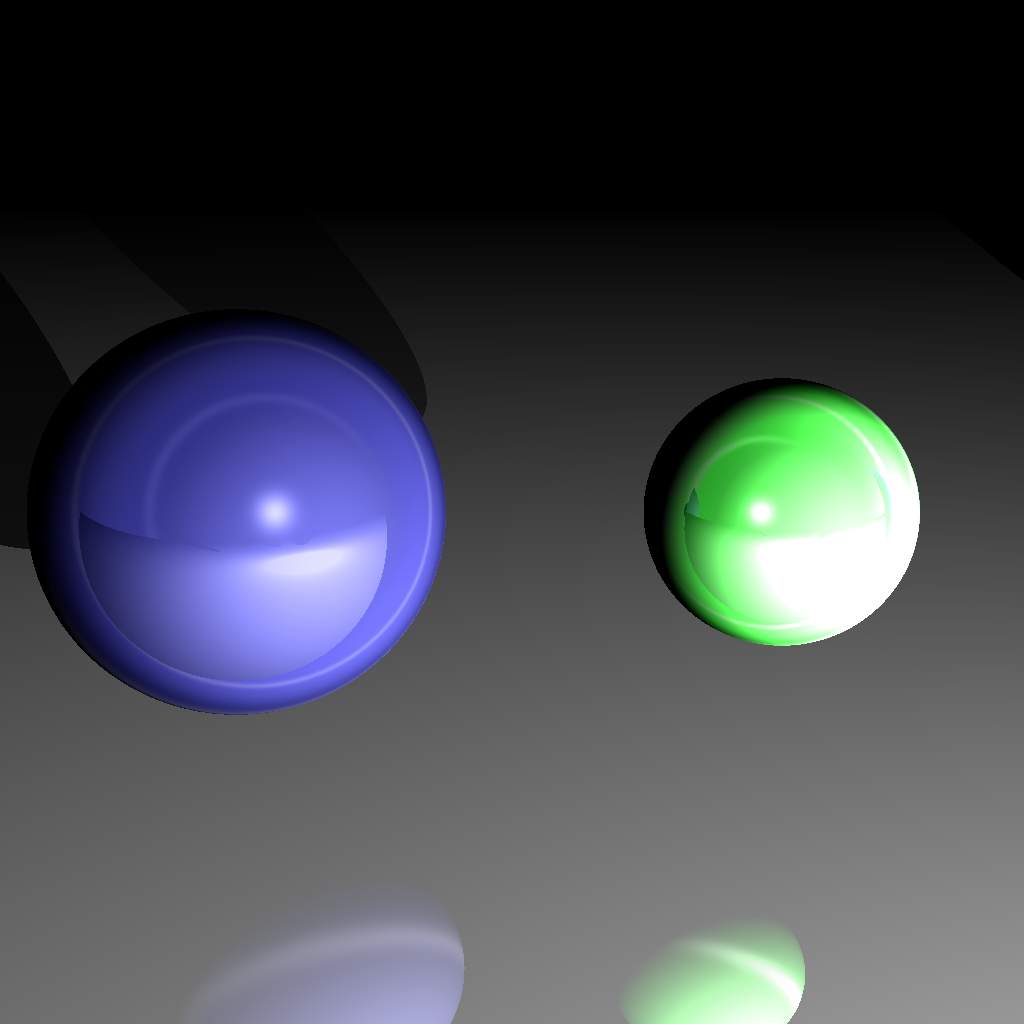
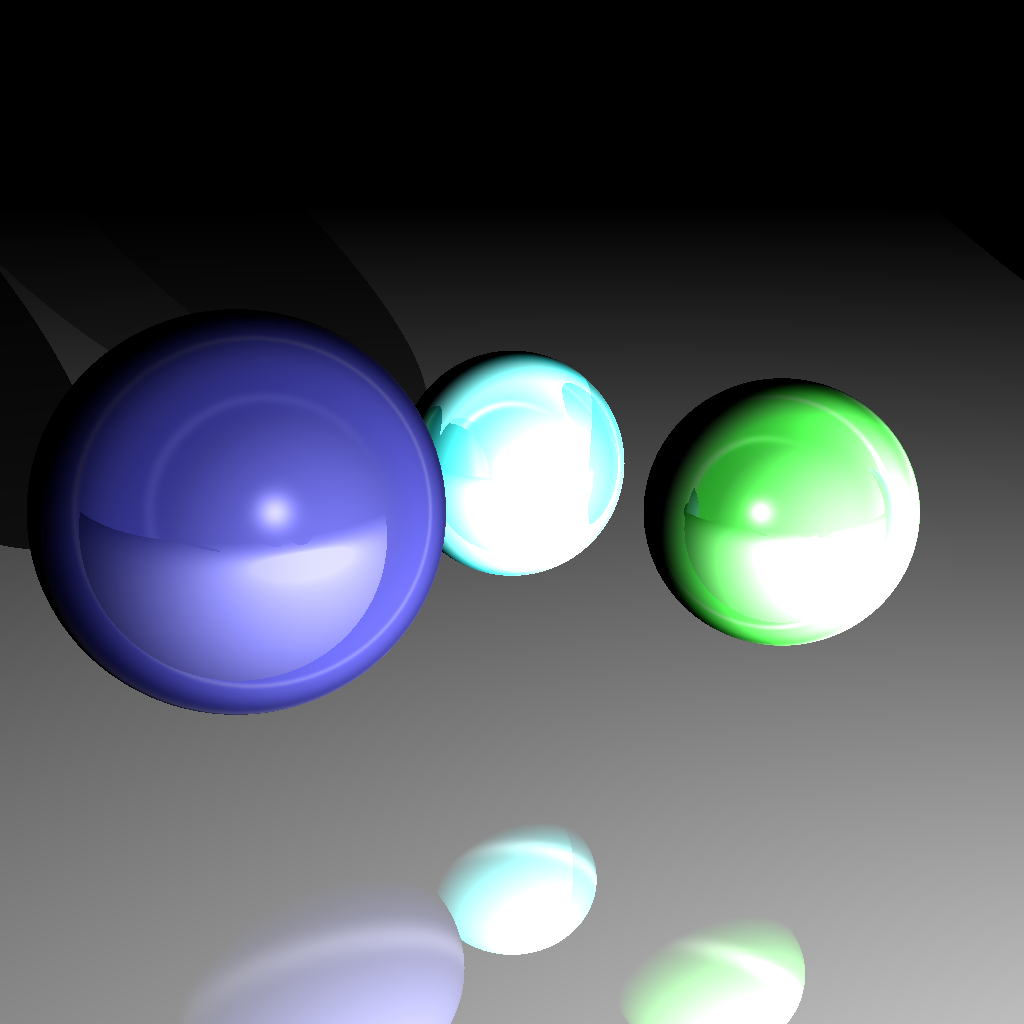
Raysexo

diff --git a/Scene.py b/Scene.py
@@ -272,7 +272,8 @@ if __name__ == "__main__":
     #LEFT HAND 
     S1 = Sphere(Point(-20,0,0), 2, Couleur(1,0,0))
     S2 = Sphere(Point(-4,0,0), 2, Couleur(0,1,0)) 
-    S3 = Sphere(Point(4,0,0), 3, Couleur(0,0,1)) 
+    S3 = Sphere(Point(4,0,0), 3, Couleur(0,0,1))
+    S4 = Sphere(Point(0,0,-3), 2, Couleur(0,1,1)) 
 
     P1 = Plan(Point(0,-5,0), Vecteur(0,1,0), Couleur(1,1,1))
 
@@ -282,7 +283,7 @@ if __name__ == "__main__":
 
     cam = Camera(Point(0,3,10), 5,5, Point(0,0,0), 5)
 
-    main = Scene(cam, [S1,S3,S2,P1], [L1])
+    main = Scene(cam, [S1,S3,S2,S4,P1], [L1])
     main.Gen_img_rec(1024,1024)
     #main.create_image(256,256)
 
